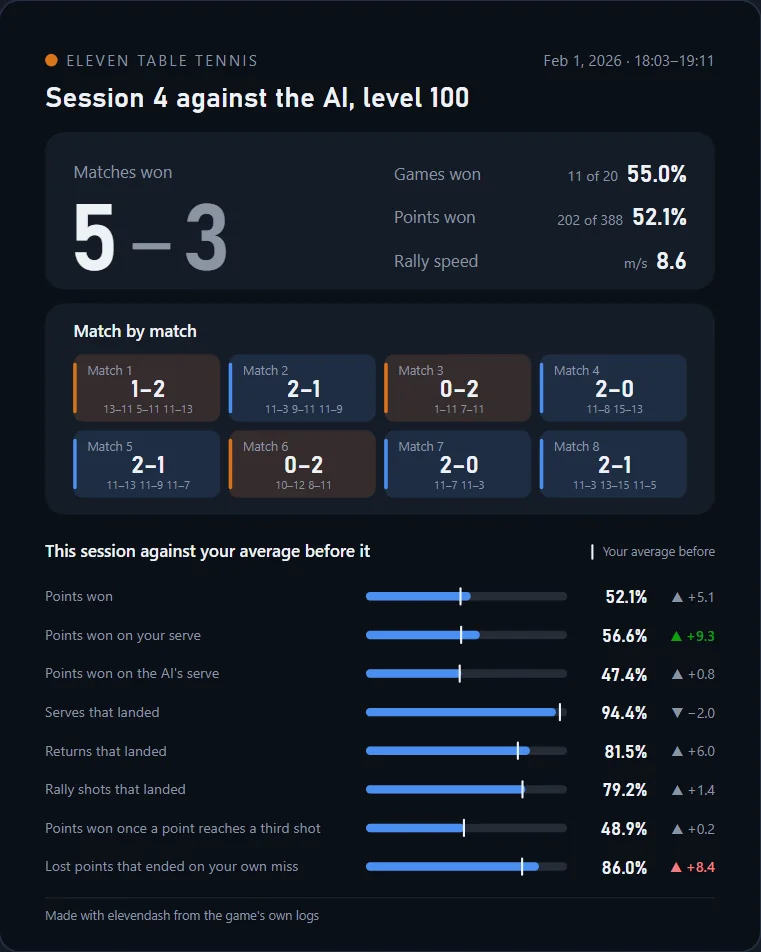
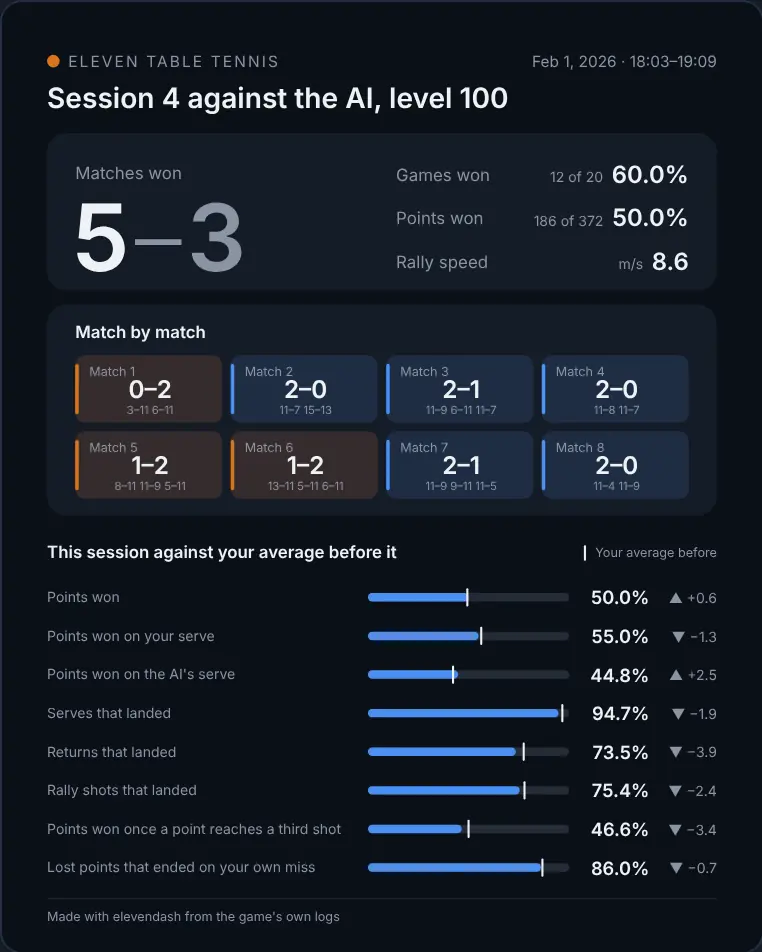
Refresh landing page screenshots from the new demo
The demo data changed in #1, so the six landing page shots and the
numbers that describe them (record at level 100, top plan item, shot
counts, the hero rally) no longer matched the live demo.

diff --git a/pages/index.html b/pages/index.html
@@ -46,9 +46,9 @@
           <svg viewBox="0 0 470 270" role="img" aria-labelledby="rally-t">
             <title id="rally-t">A side view of the table: a ball's path over the net to a bounce on the far side.</title>
             <text class="lbl" x="30" y="22">SPEED</text>
-            <text class="val" x="30" y="56">8.5</text><text class="unit" x="72" y="56">m/s</text>
+            <text class="val" x="30" y="56">9.3</text><text class="unit" x="72" y="56">m/s</text>
             <text class="lbl" x="150" y="22">SPIN</text>
-            <text class="val" x="150" y="56">13</text><text class="unit" x="182" y="56">r/s top</text>
+            <text class="val" x="150" y="56">20</text><text class="unit" x="182" y="56">r/s top</text>
             <path class="legs" d="M78 214v46M392 214v46"/>
             <rect class="top-side" x="30" y="212" width="410" height="9" rx="1.5"/><path class="tbl" d="M30 212h410"/>
             <path class="net" d="M235 212v-26"/>
@@ -66,16 +66,16 @@
               <circle class="ball" cx="200" cy="108" r="7"/>
             </g>
           </svg>
-          <figcaption>Shot 4 of a 14-shot rally in the demo: a drive, as the replay reads it from the log.</figcaption>
+          <figcaption>Shot 5 of a 13-shot rally in the demo: a drive, as the replay reads it from the log.</figcaption>
         </figure>
       </div>
 
       <div class="stage">
         <figure class="window">
-          <img src="img/home/replay.webp" width="2200" height="845" alt="The demo dashboard's Point by point view: a 14-shot rally drawn in 3D over the table, bars for every point of three games, blue for points won and orange for points lost, and the longest points as chips.">
+          <img src="img/home/replay.webp" width="1565" height="634" alt="The demo dashboard's Point by point view: a 13-shot rally drawn in 3D over the table, bars for every point of three games, blue for points won and orange for points lost, and the longest points as chips.">
         </figure>
         <figure class="float">
-          <img src="img/home/session-card.webp" width="761" height="952" loading="lazy" alt="A session card from the demo: matches won 5 to 3, games and points won, a tile for every match and eight bars setting the session against the average before it.">
+          <img src="img/home/session-card.webp" width="762" height="952" loading="lazy" alt="A session card from the demo: matches won 5 to 3, games and points won, a tile for every match and eight bars setting the session against the average before it.">
         </figure>
         <p class="stage-note">The demo dashboard, built from made-up matches: one rally in 3D, every point of the match,
           and a session card to send or post.</p>
@@ -121,11 +121,11 @@
             <li>Any shot opens in the replay</li>
           </ul>
         </div>
-        <figure class="shot"><img src="img/home/shots.webp" width="1400" height="624" loading="lazy" alt="The shot explorer in the demo: 2,728 shots with 78.7% landed, bars for landed, into the net, long, wide and not reached, and your half of the table from above with a dot where each ball bounced."></figure>
+        <figure class="shot"><img src="img/home/shots.webp" width="1613" height="670" loading="lazy" alt="The shot explorer in the demo: 2,629 shots with 78.3% landed, bars for landed, into the net, long, wide and not reached, and your half of the table from above with a dot where each ball bounced."></figure>
       </div>
 
       <div class="feature flip">
-        <figure class="shot"><img src="img/home/plan.webp" width="1400" height="482" loading="lazy" alt="The first item of the training plan in the demo, A firmer backhand return, worth about 0.5 points a match, with a drill and a chart against its target."></figure>
+        <figure class="shot"><img src="img/home/plan.webp" width="1613" height="532" loading="lazy" alt="The first item of the training plan in the demo, Keep the slower ball on the table, worth about 0.3 points a match, with a drill and a chart against its target."></figure>
         <div class="copy">
           <p class="where">Coaching</p>
           <h3>Practise what's worth points</h3>
@@ -150,11 +150,11 @@
             <li>A match card or a session card to send or post</li>
           </ul>
         </div>
-        <figure class="shot"><img src="img/home/overview.webp" width="1400" height="716" loading="lazy" alt="The demo's Overview: the heading Last session: 5 of 8 matches won, a written summary, and 7 matches won and 8 lost at level 100 beside 14 won and 12 lost over every AI match, with games and points won."></figure>
+        <figure class="shot"><img src="img/home/overview.webp" width="1565" height="701" loading="lazy" alt="The demo's Overview: the heading Last session: 5 of 8 matches won, a written summary, and 8 matches won and 7 lost at level 100 beside 13 won and 13 lost over every AI match, with games and points won."></figure>
       </div>
 
       <div class="feature flip">
-        <figure class="shot narrow"><img src="img/home/table3d.webp" width="601" height="781" loading="lazy" alt="The replay in 3D: the table seen from behind your end, the paths of a rally's shots, and a ball in the corner turning at 16 r/s."></figure>
+        <figure class="shot narrow"><img src="img/home/table3d.webp" width="602" height="782" loading="lazy" alt="The replay in 3D: the table seen from behind your end, the paths of a rally's shots, and a ball in the corner turning at 22 r/s."></figure>
         <div class="copy">
           <p class="where">Match review</p>
           <h3>Watch it again in 3D</h3>
